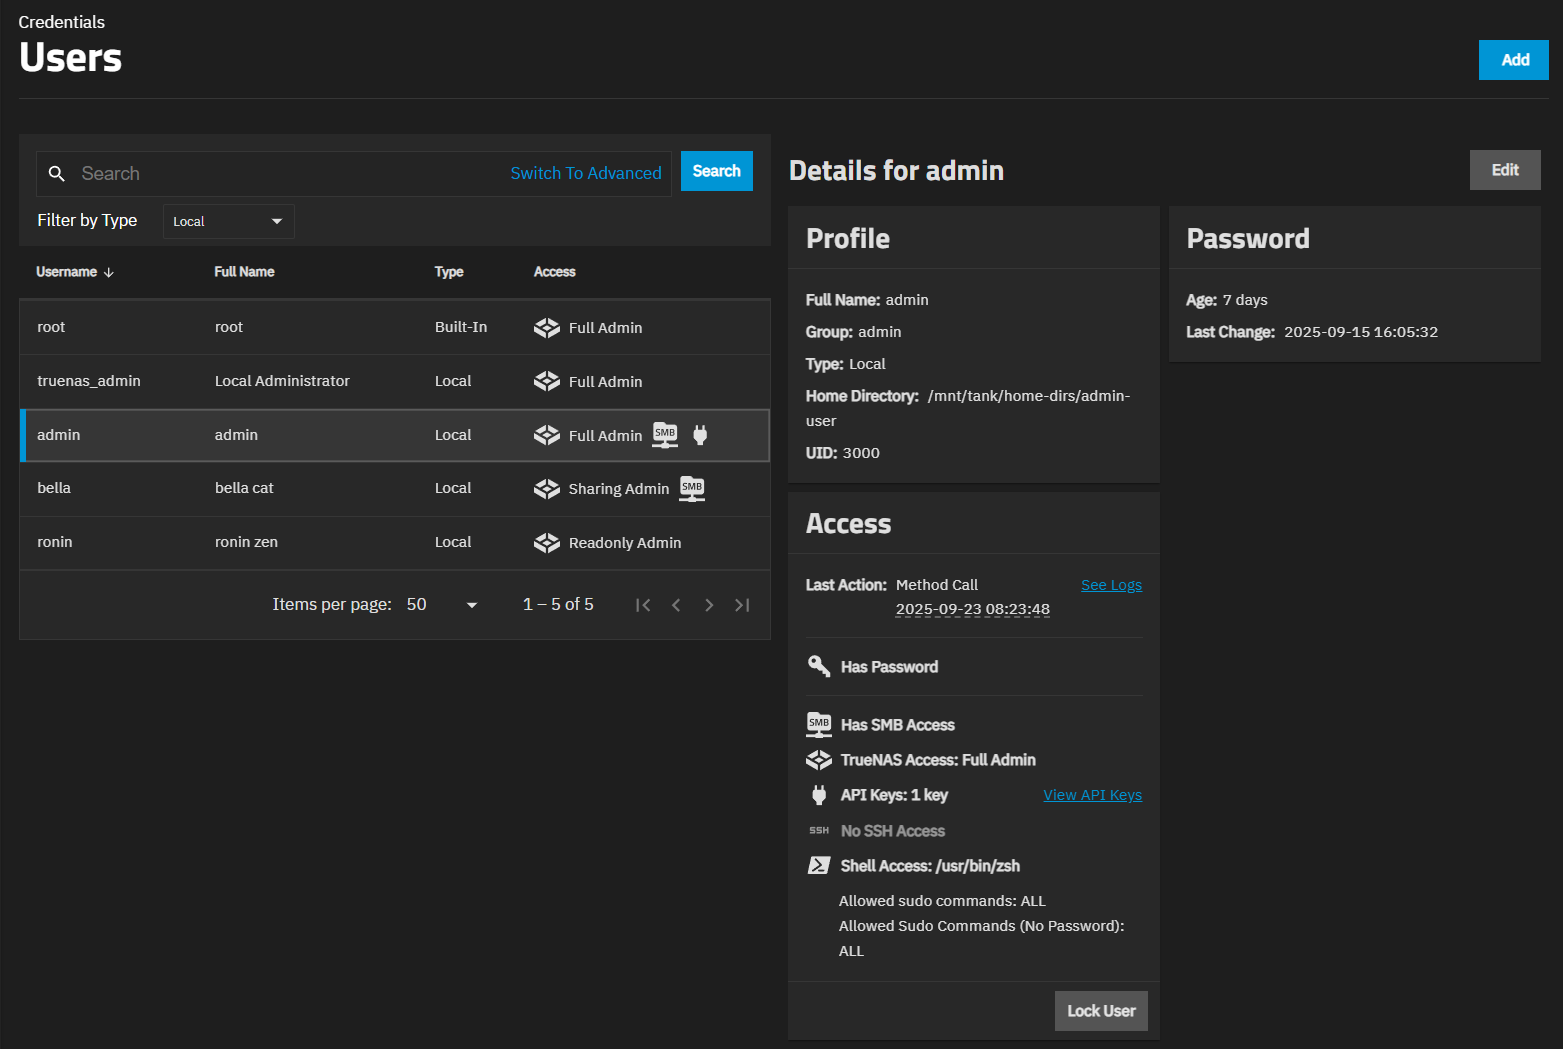
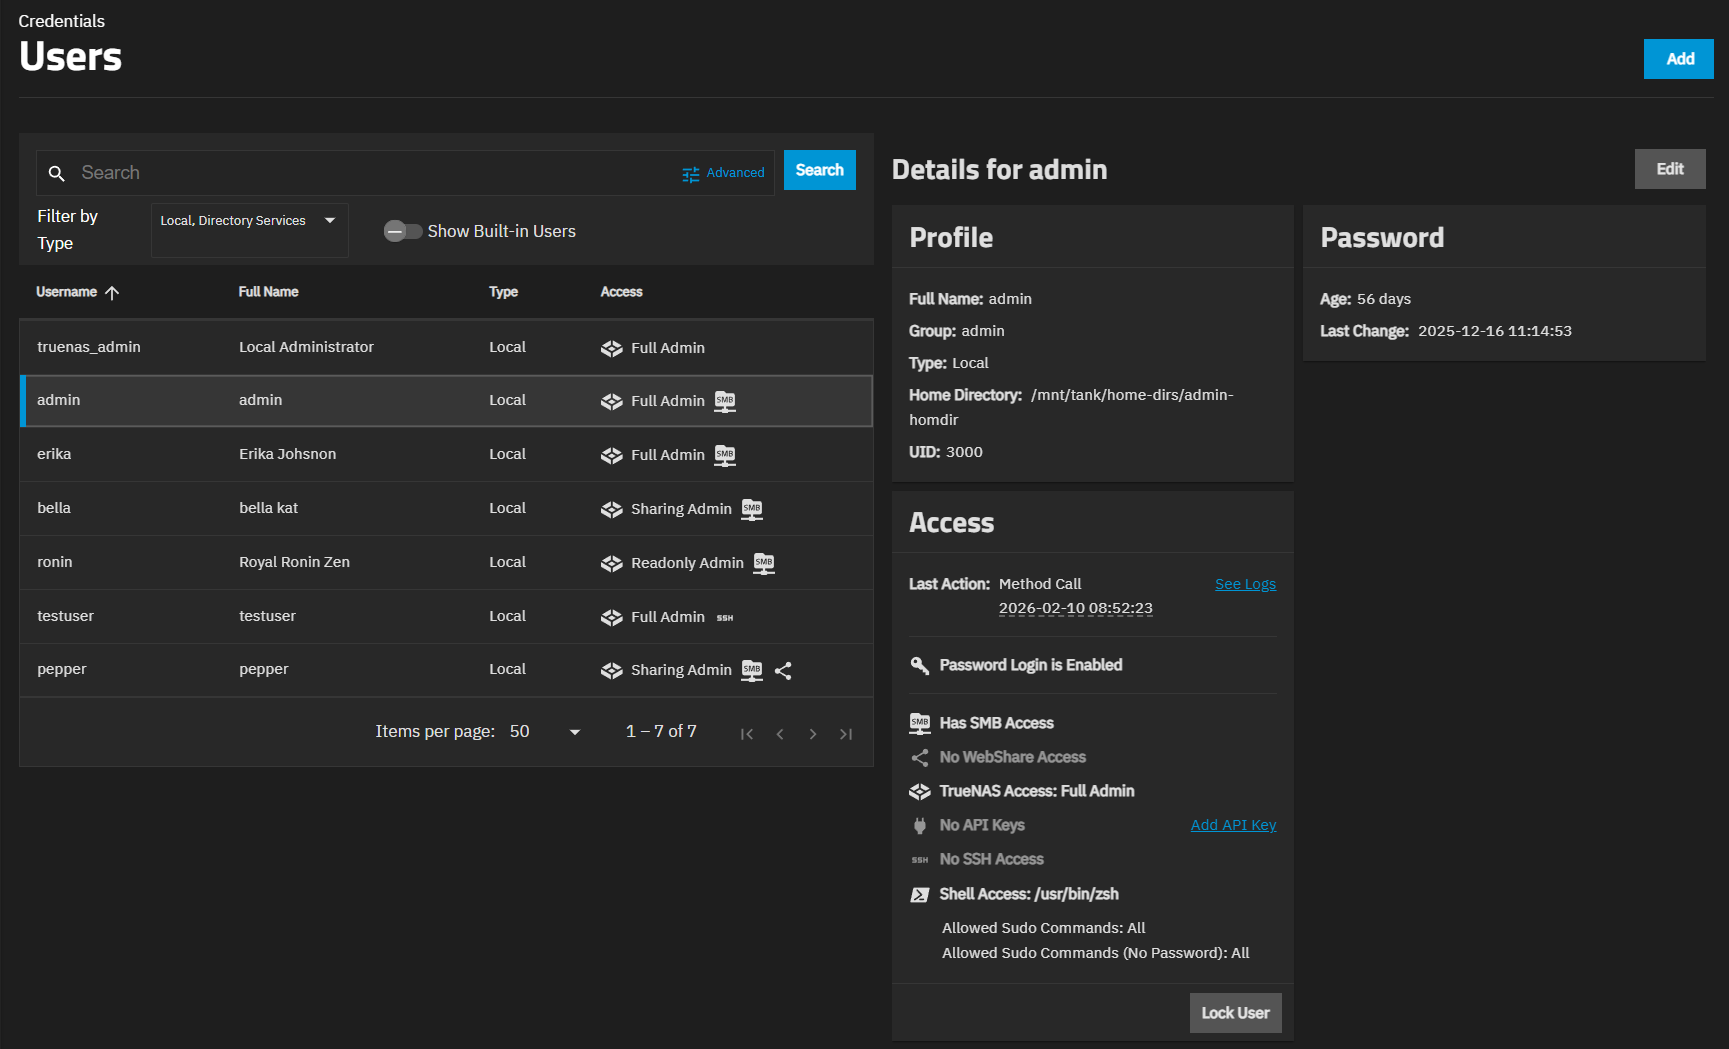
PD-2490 Update User, Share, Service UI Ref Content for WebShare
This PR adds WebShare content changes to the Users Screen and AddingAUser.md snippet in the ManageUsers.md article.
It adds new UI ref for the WebShares screens in Sharing and System>Services
This content does not backport.

diff --git a/content/SCALE/SCALEUIReference/Credentials/UsersScreen.md b/content/SCALE/SCALEUIReference/Credentials/UsersScreen.md
@@ -11,13 +11,13 @@ tags:
 
 
 The **Credentials > Users** screen shows a table with all users created on the system. A set of widgets shows for the selected user row (the first row is selected by default).
-The root user is the first user row, and it therefore shows by default when you first access the screen.
+The truenas_admin user is the first user row, and it therefore shows by default when you first access the screen.
 
-{{< trueimage src="/images/SCALE/Credentials/UsersScreen.png" alt="Users screen showing user table and widgets" id="Users Screen" >}}
+{{< trueimage src="/images/SCALE/Credentials/UsersScreen.png" alt="Users screen" id="Users Screen" >}}
 
 **Add** opens the **[Add User](#add-or-edit-user-screens)** screen.
 
-**Edit** opens the **[Edit user](#add-or-edit-user-screens)** screen.
+**Edit** opens the **[Edit user](#add-or-edit-user-screens)** screen for the selected or default user row.
 <!-- no delete option
 **Delete** opens the **[Delete User](#)** dialog.
 -->
@@ -25,7 +25,7 @@ The root user is the first user row, and it therefore shows by default when you 
 
 The **Users** screen search is set to the basic, or simple search option by default. It accepts any word entered, such as a username, user type, or role.
 
-{{< trueimage src="/images/SCALE/Credentials/UsersScreenBasicSearch.png" alt="Users screen basic search interface" id="Users Screen Basic Search" >}}
+{{< trueimage src="/images/SCALE/Credentials/UsersScreenBasicSearch.png" alt="Users Screen Basic search" id="Users Screen Basic Search" >}}
 
 **Switch to Advanced** link shows in the search field when in basic search mode.
 
@@ -46,7 +46,9 @@ Each user row also shows an icon showing the level of access given to the user.
 |------|-------------|
 | ![UserTruenasAccessIcon](/images/SCALE/credentials/UserTruenasAccessIcon.png "TrueNAS Access Icon") | Indicates the user has TrueNAS Access. |
 | ![DatasetRolesSMBShareIcon](/images/SCALE/Datasets/DatasetRolesSMBShareIcon.png " SMB Share Access Icon") | Indicates the user has SMB access. |
+| <span class="material-icons">share</span> | Indicates the user has WebShare access. |
 | <span class="material-icons">power</span> | Indicates the user has an API key. |
+| <svg xmlns="http://www.w3.org/2000/svg" width="24" height="24" viewBox="0 0 24 24"><path fill="currentColor" d="M4.5 9c-.6 0-1 .5-1 1v1.75c0 .5.4 1 1 1H7v.75H3.5V15h4c.6 0 1-.5 1-1v-1.75c0-.5-.4-1-1-1H5v-.75h3.5V9zm6 0c-.6 0-1 .5-1 1v1.75c0 .5.4 1 1 1H13v.75H9.5V15h4c.6 0 1-.5 1-1v-1.75c0-.5-.4-1-1-1H11v-.75h3.5V9zm5 0v6H17v-2.5h2V15h1.5V9H19v2h-2V9z"/></svg> | Indicates the user has SSH access. |
 {{< /truetable >}}
 
 By default, only local users show in the user table. The **Filter by Type** dropdown list has three options to show all users in the system:
@@ -124,11 +126,12 @@ The following table legend shows the icons found on the **Access** widget:
 | Icon | Description |
 |------|-------------|
 | <svg xmlns="http://www.w3.org/2000/svg" width="24" height="24" viewBox="0 0 24 24"><path fill="currentColor" d="M22 18v4h-4v-3h-3v-3h-3l-2.26-2.26c-.55.17-1.13.26-1.74.26a6 6 0 0 1-6-6a6 6 0 0 1 6-6a6 6 0 0 1 6 6c0 .61-.09 1.19-.26 1.74zM7 5a2 2 0 0 0-2 2a2 2 0 0 0 2 2a2 2 0 0 0 2-2a2 2 0 0 0-2-2"/></svg> | Indicates user has a password. |
-| ![UserTruenasAccessIcon](/images/SCALE/credentials/UserTruenasAccessIcon.png "TrueNAS Access Icon") | Indicates the user has TrueNAS Access. |
+| ![UserTruenasAccessIcon](/images/SCALE/credentials/UserTruenasAccessIcon.png "TrueNAS Access Icon")  | Indicates the user has TrueNAS Access. |
 | ![DatasetRolesSMBShareIcon](/images/SCALE/Datasets/DatasetRolesSMBShareIcon.png " SMB Share Access Icon") | Indicates the user has SMB access. |
+| <span class="material-icons">share</span> | Indicates the user has WebShare access. |
 | <span class="material-icons">power</span> | Indicates the user has an API key. |
- <svg xmlns="http://www.w3.org/2000/svg" width="24" height="24" viewBox="0 0 24 24"><path fill="currentColor" d="M4.5 9c-.6 0-1 .5-1 1v1.75c0 .5.4 1 1 1H7v.75H3.5V15h4c.6 0 1-.5 1-1v-1.75c0-.5-.4-1-1-1H5v-.75h3.5V9zm6 0c-.6 0-1 .5-1 1v1.75c0 .5.4 1 1 1H13v.75H9.5V15h4c.6 0 1-.5 1-1v-1.75c0-.5-.4-1-1-1H11v-.75h3.5V9zm5 0v6H17v-2.5h2V15h1.5V9H19v2h-2V9z"/></svg> | Indicates the user has SSH access. |
- | <svg xmlns="http://www.w3.org/2000/svg" width="32" height="32" viewBox="0 0 32 32"><path fill="currentColor" d="M30.906 4.104c.76 0 1.234.615 1.057 1.38l-4.88 21.307c-.172.76-.927 1.38-1.682 1.38H1.094c-.76 0-1.234-.62-1.057-1.38l4.88-21.307c.172-.766.927-1.38 1.682-1.38zM19.74 16.563c.339-.526.302-1.208-.12-1.656l-7.458-7.938c-.505-.536-1.38-.542-1.953-.005c-.573.542-.625 1.411-.12 1.948l6.219 6.615v.146L6.412 22.84c-.599.432-.708 1.302-.25 1.938c.464.635 1.323.797 1.922.359l10.974-7.88c.37-.26.583-.49.682-.693zm-3.724 5.864a1.24 1.24 0 0 0-1.25 1.229a1.24 1.24 0 0 0 1.25 1.234h5.906a1.24 1.24 0 0 0 1.25-1.234a1.24 1.24 0 0 0-1.25-1.229z"/></svg> | Indicates the user has shell access. |
+| <svg xmlns="http://www.w3.org/2000/svg" width="24" height="24" viewBox="0 0 24 24"><path fill="currentColor" d="M4.5 9c-.6 0-1 .5-1 1v1.75c0 .5.4 1 1 1H7v.75H3.5V15h4c.6 0 1-.5 1-1v-1.75c0-.5-.4-1-1-1H5v-.75h3.5V9zm6 0c-.6 0-1 .5-1 1v1.75c0 .5.4 1 1 1H13v.75H9.5V15h4c.6 0 1-.5 1-1v-1.75c0-.5-.4-1-1-1H11v-.75h3.5V9zm5 0v6H17v-2.5h2V15h1.5V9H19v2h-2V9z"/></svg> | Indicates the user has SSH access. |
+| <svg xmlns="http://www.w3.org/2000/svg" width="32" height="32" viewBox="0 0 32 32"><path fill="currentColor" d="M30.906 4.104c.76 0 1.234.615 1.057 1.38l-4.88 21.307c-.172.76-.927 1.38-1.682 1.38H1.094c-.76 0-1.234-.62-1.057-1.38l4.88-21.307c.172-.766.927-1.38 1.682-1.38zM19.74 16.563c.339-.526.302-1.208-.12-1.656l-7.458-7.938c-.505-.536-1.38-.542-1.953-.005c-.573.542-.625 1.411-.12 1.948l6.219 6.615v.146L6.412 22.84c-.599.432-.708 1.302-.25 1.938c.464.635 1.323.797 1.922.359l10.974-7.88c.37-.26.583-.49.682-.693zm-3.724 5.864a1.24 1.24 0 0 0-1.25 1.229a1.24 1.24 0 0 0 1.25 1.234h5.906a1.24 1.24 0 0 0 1.25-1.234a1.24 1.24 0 0 0-1.25-1.229z"/></svg> | Indicates the user has shell access. |
 {{< /truetable >}}
     
 **See Logs** opens the **Audit** screen showing log details for activity associated with that user.
@@ -168,7 +171,7 @@ Each access option changes the settings shown in other sections of the **Add Use
 | Setting | Description |
 |---------|-------------|
 | **Username** | (Required) Text entry field that accepts manual or copy/paste entry of a name for the user. A user name consists of up to 32 characters. When using NIS or other legacy software with limited user name lengths, keep names to eight characters or less for compatibility. Names should not begin with a hyphen (-), include a space, tab, or these special characters: comma (,), plus (+), ampersand (&), percent (%), carat (^), open or close parenthesis ( ), exclamation mark (!), at symbol (@), tilde (~), question mark (?), greater or less than symbols (<)(>), or equal (=). |
-| **Allow Access** | Specifies the access granted to the user account. Each option shows different settings. Access options are: <br><li>**SMB Access** - The default option is pre-selected. <br><li>**TrueNAS Access** - Shows the **Select Role** dropdown and the **custom roles** link that opens the TrueNAS documentation article on pre-defined administrator roles.<br><li>**Shell Access** - Adds the **Shell** and **Sudo Commands** options to the [**Additional Details**](#additional-details) section. <br><li>**SSH Access** - Deactivates the **Shell Access** option, but shows the **Shell** and **Sudo Commands** options found with **Shell Access**. Shows the **Allow SSH Login with Password (not recommended)** option, and the **Public SSH Key** field.</li> |
+| **Allow Access** | Specifies the access granted to the user account. Each option shows different settings. Access options are: <br><li>**SMB Access** - The default option is pre-selected.<br><li>**WebShare Access** - Adds WebShare access for the user.<br><li>**TrueNAS Access** - Shows the **Select Role** dropdown and the **custom roles** link that opens the TrueNAS documentation article on pre-defined administrator roles.<br><li>**Shell Access** - Adds the **Shell** and **Sudo Commands** options to the [**Additional Details**](#additional-details) section. <br><li>**SSH Access** - Deactivates the **Shell Access** option, but shows the **Shell** and **Sudo Commands** options found with **Shell Access**. Shows the **Allow SSH Login with Password (not recommended)** option, and the **Public SSH Key** field.</li> |
 | **Select Role** | Shows after selecting **TrueNAS Access**. Each role adds the appropriate group to the **Groups** option under [**Additional Details**](#additional-details). |
 {{< /truetable >}}
 

diff --git a/content/SCALE/SCALEUIReference/Shares/WebShareSharesScreens.md b/content/SCALE/SCALEUIReference/Shares/WebShareSharesScreens.md
@@ -1,0 +1,90 @@
+---
+title: "WebShare Shares Screens"
+description: "Provides information on WebShare share screens and settings."
+weight: 60
+aliases:
+tags:
+- webshare
+- data sharing
+---
+
+## WebShares Widget
+
+If you have not added WebShare shares to the system, the WebShare widget shows text stating general information about WebShares until a share is added.
+
+{{< trueimage src="/images/SCALE/Shares/WebShareWidgetNoShares.png" alt="WebShare Widget without Shares" id="WebShare Widget without Shares" >}}
+
+**Add** at the top right of the widget opens the [**Add WebShare** screen](#add-and-edit-webshare-screens) where you configure a Webshare share.
+
+After adding an WebShare share, it is listed in the table on the widget.
+
+{{< trueimage src="/images/SCALE/Shares/WebShareWidgetWithShare.png" alt="WebShare Share Widget with Shares" id="WebShare Share Widget with Shares" >}}
+
+The **WebShare <span class="material-icons">launch</span>** header shows the status of the WebShare service as either **Stopped** (red) or **Runnig** (green).
+Before adding the first share, the **Stopped** status displays in the default color.
+The header is a link that opens the [**Sharing > WebShare** screen](#webshare-screen).
+
+**Open WebShare** opens a browser window with access to the WebShare.
+**Add** opens the [**Add Webshare**](#add-and-edit-webshare-screens) screen.
+
+The <span class="material-icons">more_vert</span> dropdown list shows two options available to WebShare shares in general:
+* **Turn Off/ON Service** toggles to **Turn Off Service** when the WebShare service is enabled, and to **Turn On Service** when the WebService service is disabled.
+* **Config Service** opens the [**WebShare**]({{< ref "WebShareServiceScreen" >}}) service configuration screen.
+
+## WebShare Table
+
+The **WebShare** table in the **WebShare** widget and on the **WebShares** screen lists all WebShare shares added to the system.
+The table header shows the status of the WebShare service as stopped or running.
+The table columns show the share name and the path to the dataset for the share.
+
+A message shows at the top of the table and on the **WebShares** widget on the **Shares** screen if a user is not configured to allow WebShare access.
+
+Each Webshare share row shows the share name, the path to the shared dataset, and three icons: 
+* **<span class="material-icons">launch</span> Open** - Launches a web browser showing access to the WebShare.
+* **<span class="material-icons">edit</span> Edit** - Opens the [Edit Webshare](#).
+* **<span class="material-icons">delete</span> Delete** - Opens a delete confirmation dialog.
+
+### Delete WebShare Share Dialog
+
+The <span class="material-icons">delete</span> delete icon opens a **Delete** confirmation dialog. The dialog shows the name of the share, and a warning message about deleting the WebShare.
+
+{{< trueimage src="/images/SCALE/Shares/DeleteWebShareShareDialog.png" alt="Delete WebShare Share" id="Delete WebShare Share" >}}
+
+Select **Confirm** to activate the **Delete** button.
+
+## WebShares Screen
+
+The **Shares > WebShare** screen shows the same WebShares table found on the **WebShare** widget.
+
+{{< trueimage src="/images/SCALE/Shares/SharesWebShareScreen.png" alt="WebShares Screen" id="WebShares Screen" >}}
+
+**Shares** in the breadcrumb at the top of the screen returns you to the main **Shares** dashboard.
+
+**Columns** shows a set of options to customize the list view.
+Options include **Unselect All**, **Name**, **Path**, and **Reset to Defaults**.
+
+**Add** opens the [**Add WebShare**](#add-and-edit-webshare-screens) configuration screen.
+
+## Add and Edit WebShare Screens { id="share_webshare" }
+
+The two WebShare configuration screens, **Add WebShare** and **Edit WebShare**, have the same setting options.
+
+The **Create Dataset** option becomes active after selecting a parent dataset in the **Path** file browser field.
+It opens the [**Create Dataset**](#create-dataset) dialog.
+
+**Save** creates the share (or saves an existing one) and adds it to the **WebShare** widget and the **WebShare** table on the **WebShare** screen.
+
+{{< trueimage src="/images/SCALE/Shares/AddWebShare.png" alt="Add WebShare Screen" id="Add WebShare Screen" >}}
+
+{{< include file="/static/includes/FileExplorerFolderIcons.md" >}}
+
+{{< truetable >}}
+| Setting | Description |
+|---------|-------------|
+| **Path** | Populates with the full path to the dataset for the share based on the datasets selected using the file browser directly under the **Path** field. |
+| **Create Dataset** | Opens the **Create Dataset** dialog, which allows you to create a dataset for a share while configuring the share.  **Create** adds the dataset. The **Create Dataset** option remains inactive until a dataset is clicked on in the file browser. |
+| **Name** | Sets the name for the share of alphanumeric characters and can include a hyphen or underscore. |
+| **Home Share** | Used as the base path for a user home directory when set. Only one WebShare can have this enabled. |
+{{< /truetable >}}
+
+{{< include file="/static/includes/addcolumnorganizer.md" >}}

diff --git a/content/SCALE/SCALEUIReference/SystemSettings/Services/WebShareServiceScreen.md b/content/SCALE/SCALEUIReference/SystemSettings/Services/WebShareServiceScreen.md
@@ -1,0 +1,20 @@
+---
+title: "WebShare Service Screen"
+description: "Provides information on the WebShare service screen and settings."
+weight: 95
+tags:
+- services
+- webShare
+- shares
+---
+
+The **WebShare** service screen displays settings to configure the WebShare service.
+
+{{< trueimage src="/images/SCALE/SystemSettings/WebShareServiceScreen.png" alt="WebShare Service Settings" id="WebShare Service Settings" >}}
+
+{{< truetable >}}
+| Icon | Description |
+|------|-------------|
+| **Enable TrueSearch** | Enables TrueSearch file indexing and search functionality. When enabled, the active WebShares are indexed for fast file searching. |
+| **Passkey** | Configures passkey authentication for WebShare. Options are: **Required** - Users must use passkeys. **Enabled** - Users see passkeys as an option. **Disabled** - Turns off passkey authentication. |
+{{< /truetable >}}

diff --git a/static/includes/AddingAUser.md b/static/includes/AddingAUser.md
@@ -19,6 +19,8 @@ To manually add a new user, click **Credentials > Users**, and then click **Add*
 2. Set the level of access given to this user.
 
    **SMB Access** is selected by default.
+   Select **WebShare** to give this user access to a [WebShare]({{< ref "/SCALE/SCALETutorials/Shares/WebShare/_index.md" >}}).
+
    Select **TrueNAS Access**, then select the administration role from the dropdown list that shows after selecting the **TrueNAS Access** option.
 
    - To create an administrator with full access, select **Full Admin**.
